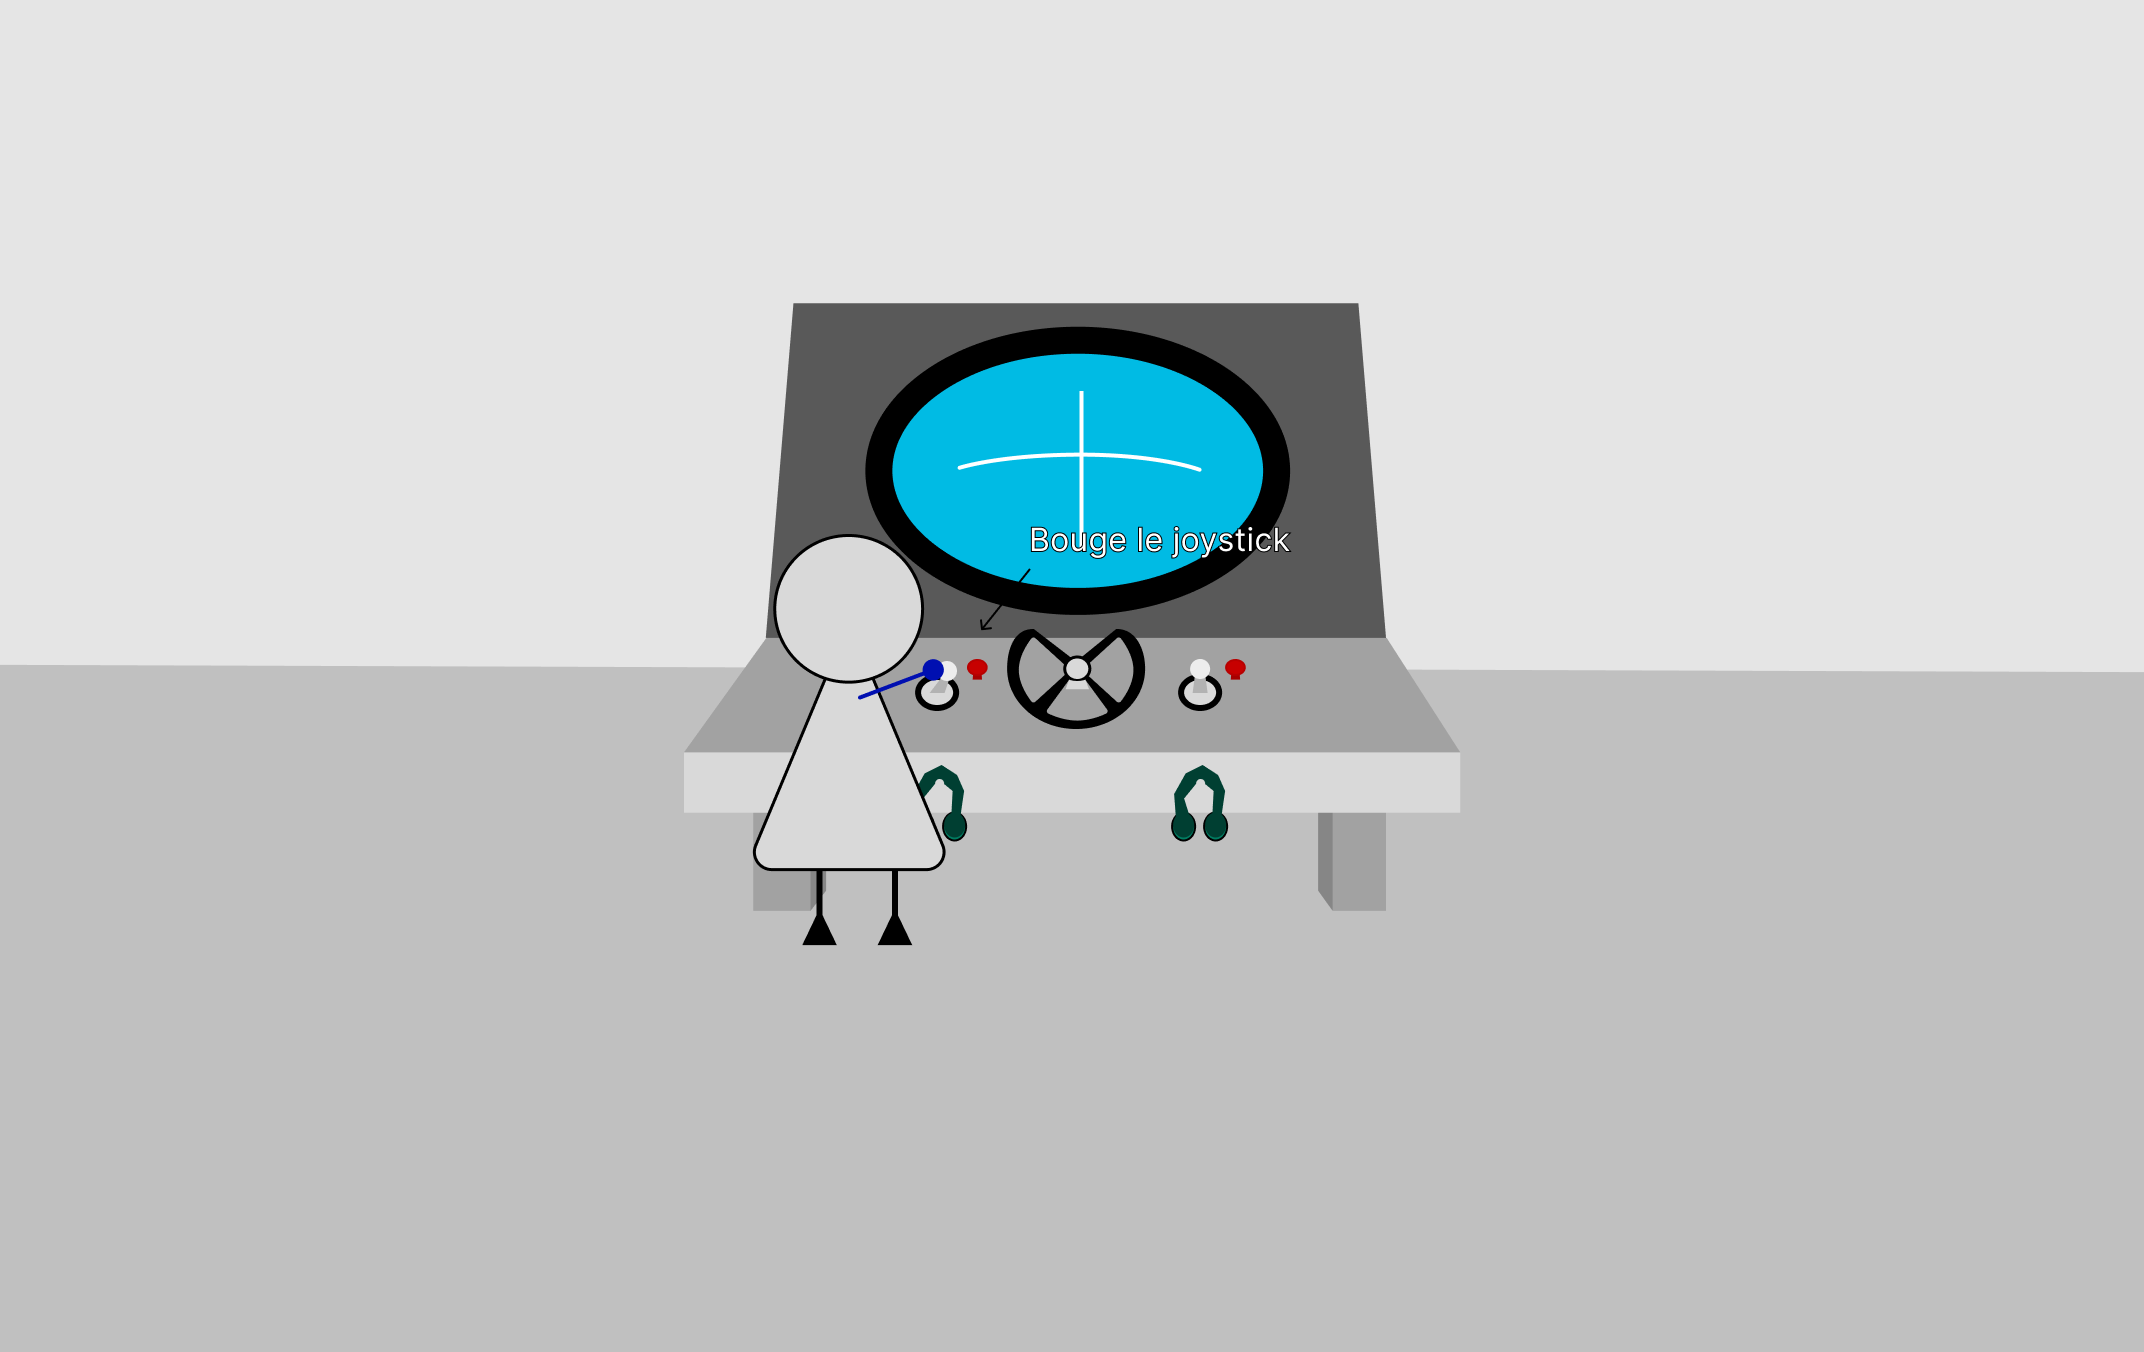
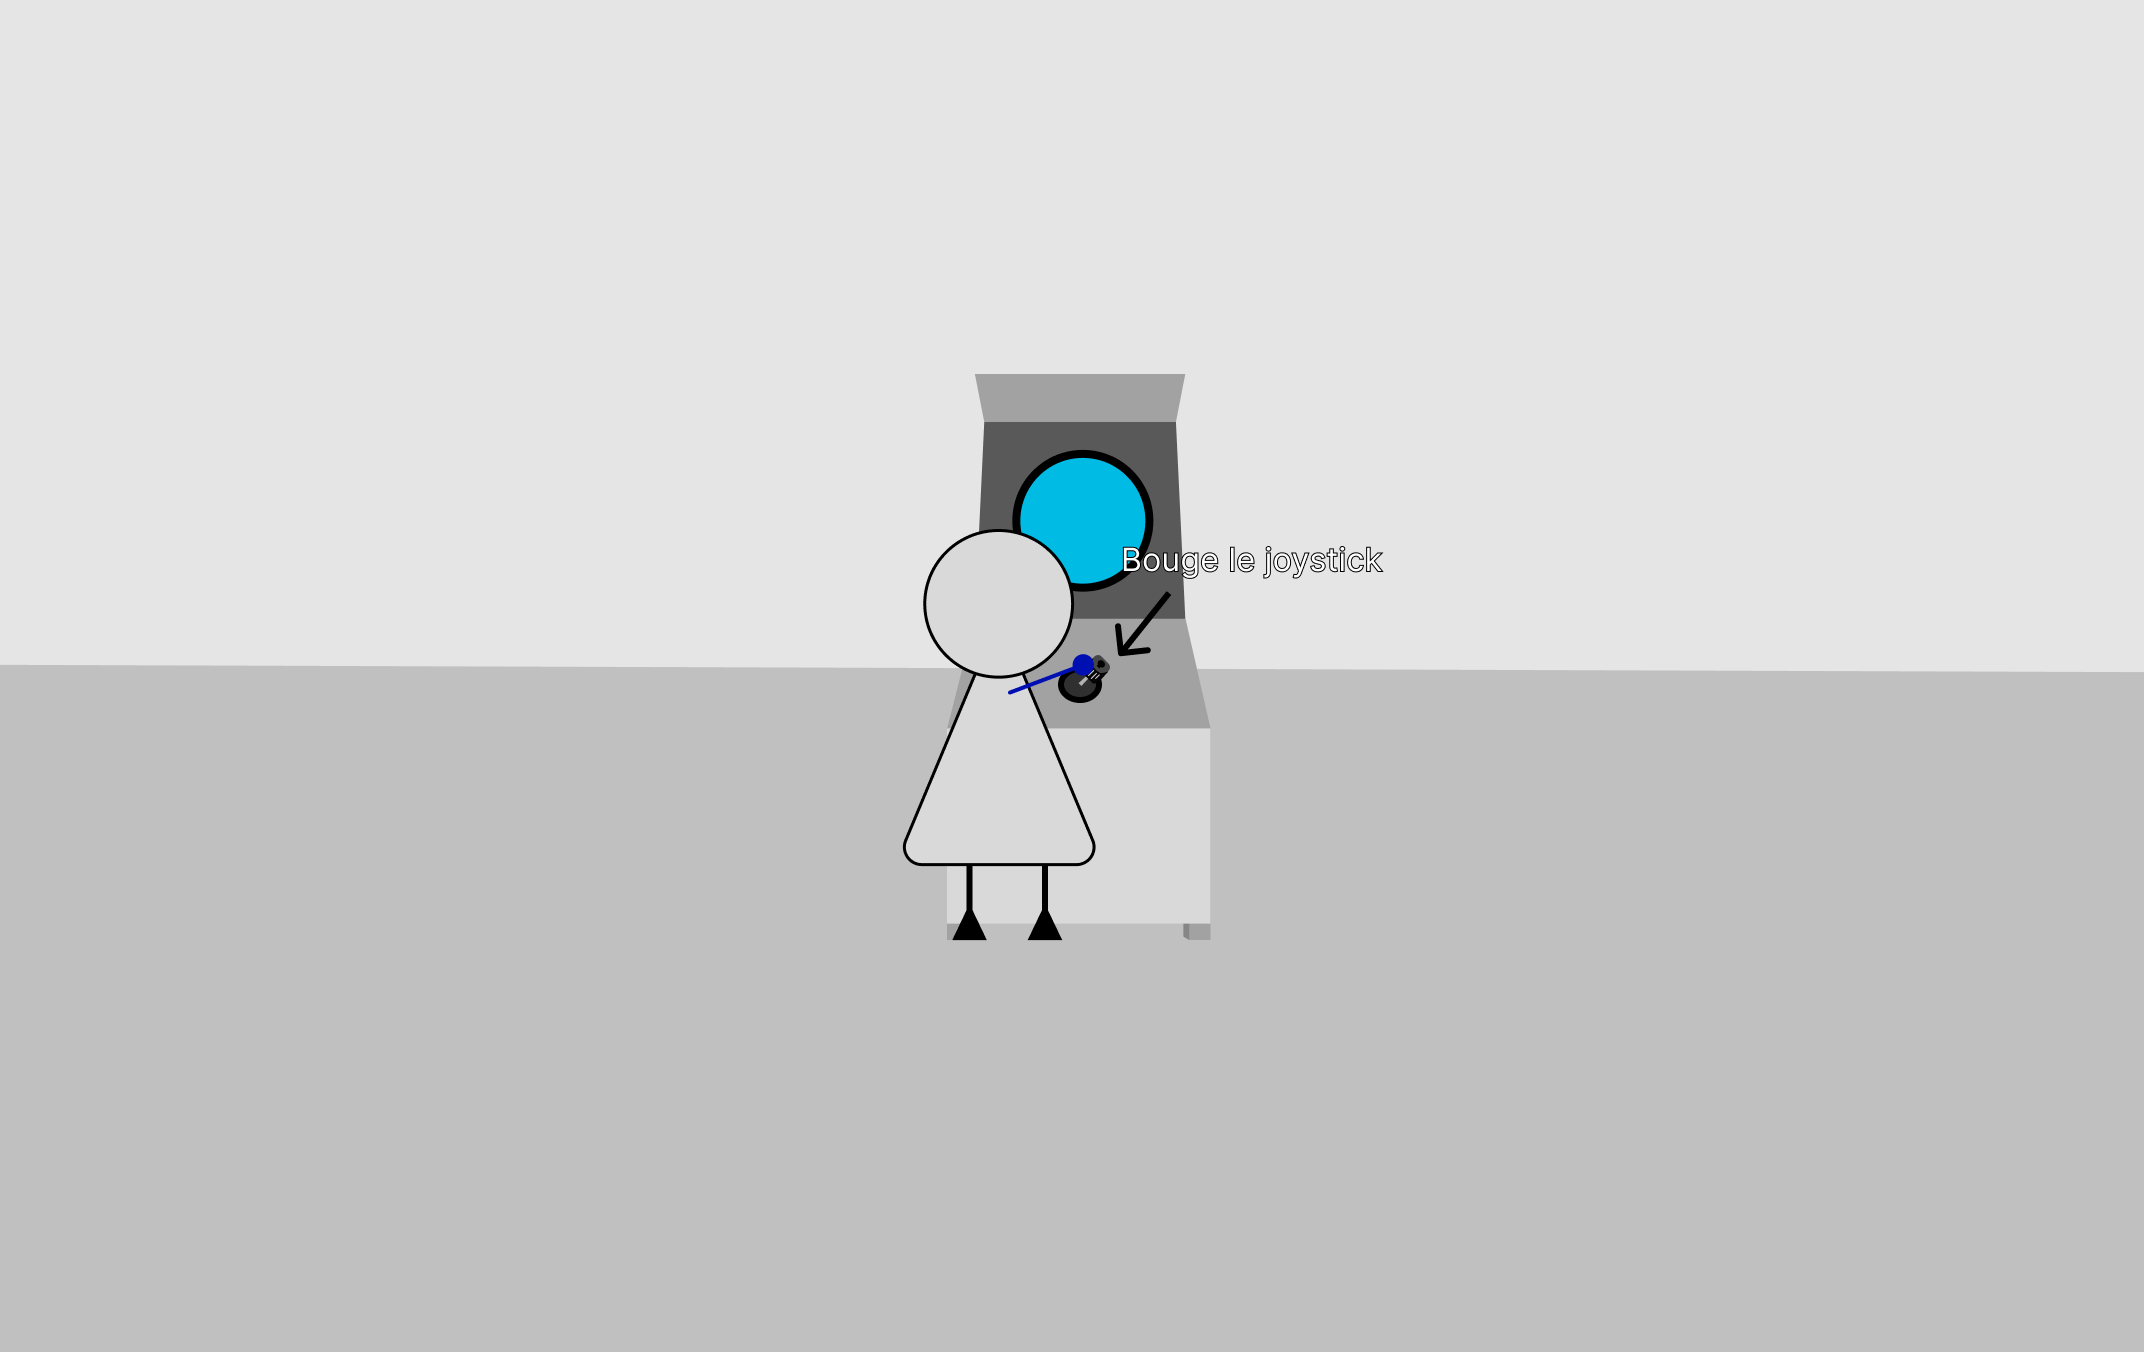
Note de journal de bord et correction page concept (vendredi 20 mars)

Changed region(s): [[0.3125, 0.2175, 0.6875, 0.7145]]

diff --git a/equipe/kristy_moussally/README.md b/equipe/kristy_moussally/README.md
@@ -746,3 +746,11 @@ Enregistrer le visuel ainsi que l’interaction du joystick et ses effets dans l
 Corriger les fautes d’orthographe dans le journal de bord.
 
 #### Vendredi
+
+Rendre l’équipement aux TTP.
+
+Contribuer au démontage de l’installation.
+
+Correction du scénarimage dans la page « Concept ».
+
+Correction des images de la vidéo de documentation dans la page d’accueil.
